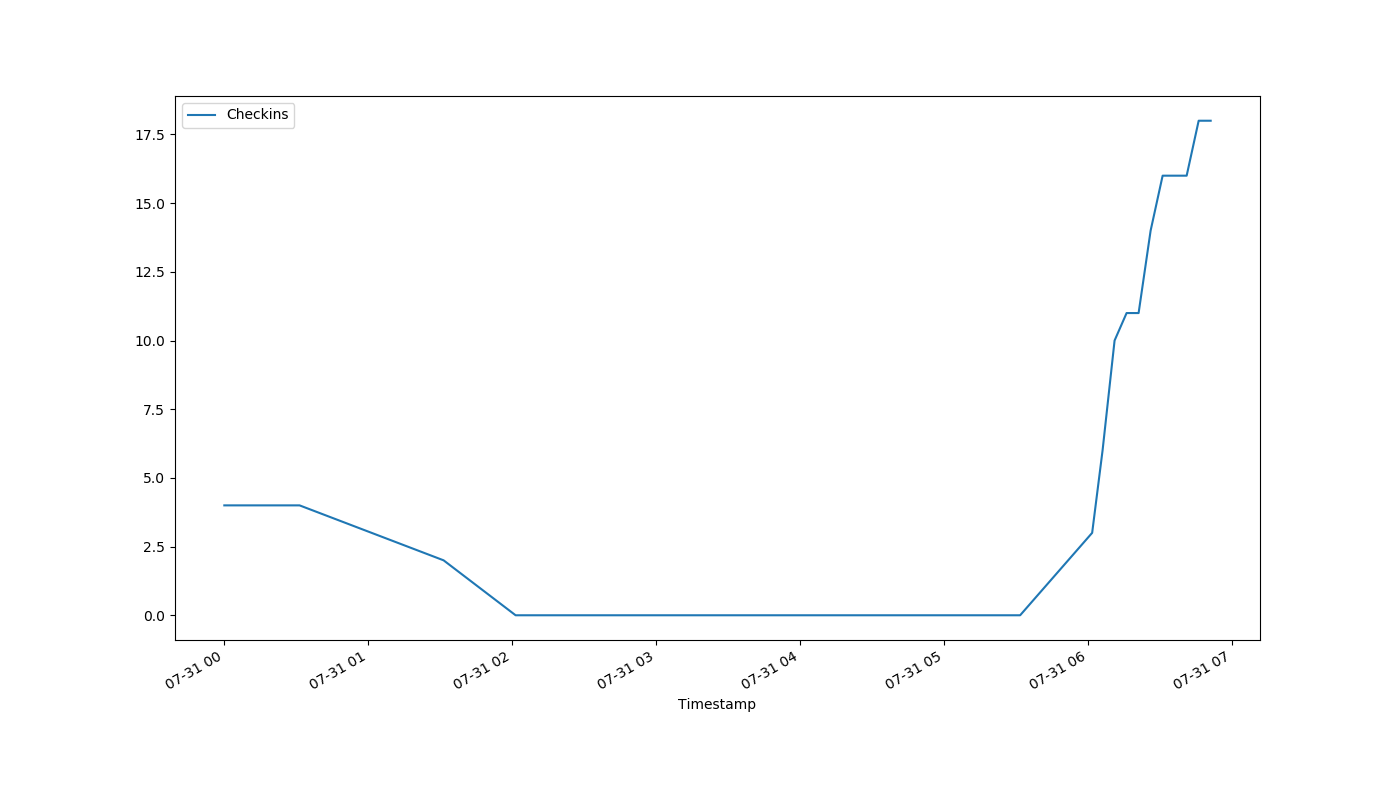
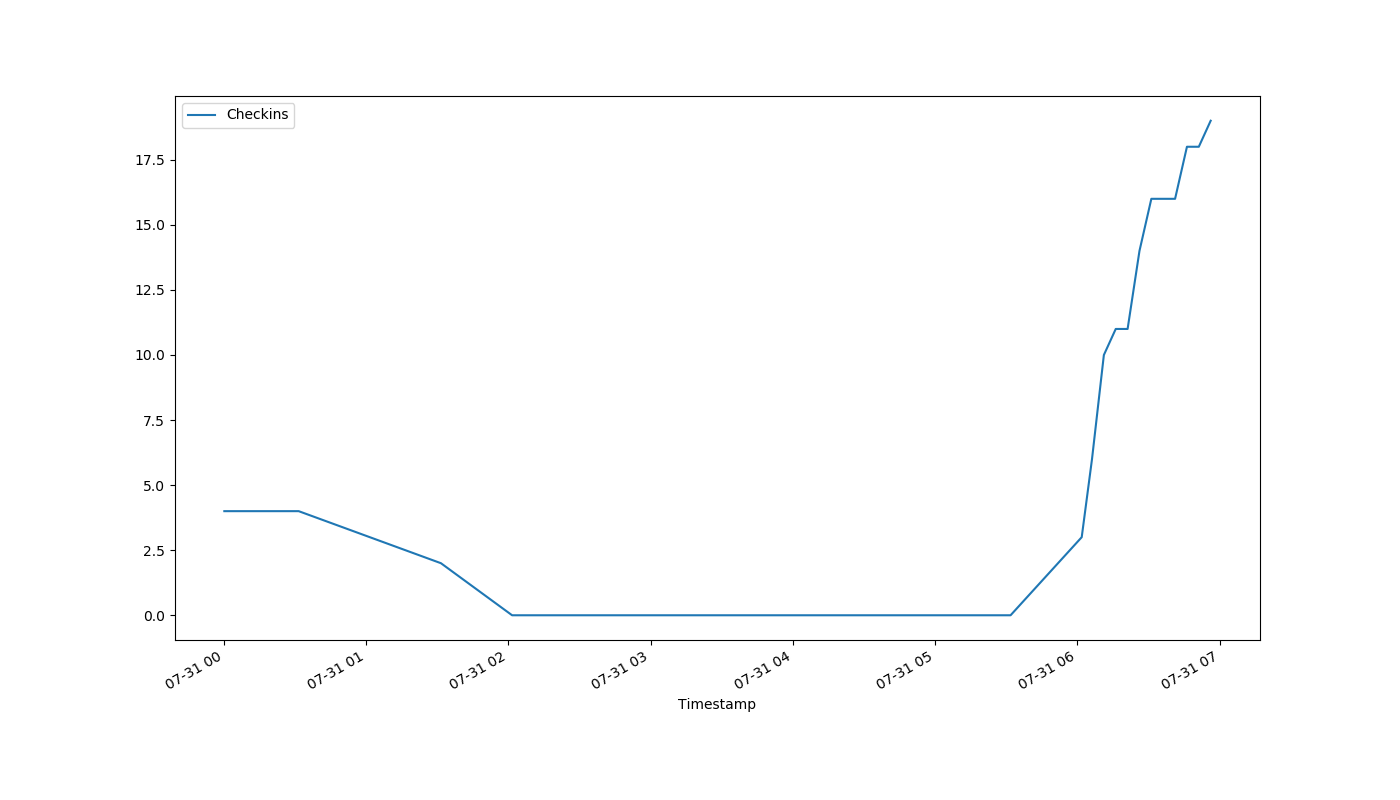
auto-Jul-31-06:58:02

diff --git a/index.html b/index.html
@@ -1,1 +1,1 @@
-<!DOCTYPE html><html><head><meta http-equiv="refresh" content="30"><link rel='stylesheet' href='holmcurrent.css'></head><body><p id='count'>18</p><div id='graph-wrap'><img id='graph' src='holmgraph-Jul-31.png'></div><p id='updated'>Last updated 06:52:03 / 06:51:12</p></body></html>
+<!DOCTYPE html><html><head><meta http-equiv="refresh" content="30"><link rel='stylesheet' href='holmcurrent.css'></head><body><p id='count'>19</p><div id='graph-wrap'><img id='graph' src='holmgraph-Jul-31.png'></div><p id='updated'>Last updated 06:57:03 / 06:56:12</p></body></html>
